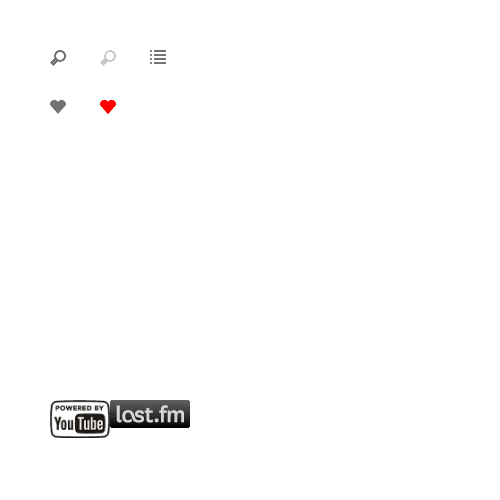
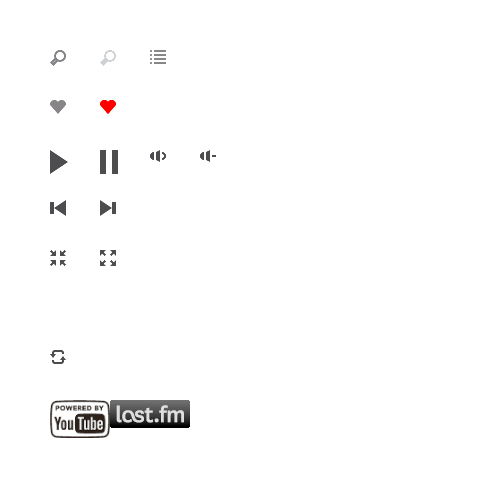
Ch-ch-ch-changes.

diff --git a/public/css/app.less b/public/css/app.less
@@ -12,6 +12,15 @@ a {
   color: #666;
   &:hover { color: #000; text-decoration: underline; }
 }
+hr {
+  background: #222;
+  width: 100%;
+  height: 1px;
+  border: 0;
+  margin: 0;
+  padding: 0;
+  border-top: 1px solid #000;
+}
 
 #app {
   background: #222;
@@ -32,20 +41,21 @@ a {
   padding: 5px 10px;
   .gradient(#eee, #ddd);
   box-shadow: 0 1px 0 1px #000;
-  z-index: 51;
+  z-index: 52;
 
   .home {
-    color: #666;
+    color: #999;
     font-weight: bold;
     font-size: 28px;
+    text-shadow: 0 1px 1px #fff;
     &:hover { text-decoration: none; color: #2b373d; }
   }
 
   #controls {
     position: absolute;
-    top: 12px;
+    top: 6px;
     left: 110px;
-    right: 340px;
+    right: 240px;
   }
 
   #query {
@@ -56,12 +66,13 @@ a {
     padding: 4px;
     font-size: 16px;
     color: #666;
-    &:focus { outline: 0; box-shadow: inset 0 0 1px 0 #999; }
+    box-shadow: inset 0 0 1px 0 #999;
+    &:focus { outline: 0; border-color: #666; }
   }
 
 }
 
-#sidebar, #quickbar, #video {
+#sidebar, #quickbar, #video, #video_shim {
   left: 0;
   width: @sidebar-width;
 }
@@ -72,7 +83,7 @@ a {
   bottom: 0;
   color: #eee;
   border-right: 1px solid #444;
-  box-shadow: 1px 0 0 3px #333;
+  box-shadow: 3px 0 0 #333;
 
   #quickbar {
     background: #101010;
@@ -80,29 +91,37 @@ a {
     top: 0;
     bottom: @video-height;
     overflow-y: scroll;
-    overflow-x: hidden;
+    overflow-x: visible;
     a {
       display: block;
-      color: #fff;
-      padding: 10px;
+      font-size: 12px;
+      font-weight: bold;
+      color: #ddd;
+      padding: 10px 10px 10px 20px;
       &:hover {
+        background: #161616;
+        text-decoration: none;
+      }
+      &.active {
         background: #c0d4df;
         color: #2b373d;
         text-decoration: none;
+        text-shadow: 0 1px 1px #fff;
       }
     }
   }
 
-  #video {
+  #video, #video_shim {
     background: #000;
     height: @video-height;
     position: fixed;
     bottom: 0;
     left: 0;
+    &#video_shim { opacity: 0; }
   }
 }
 
-#main {
+#main, #playlist_wrapper {
   position: absolute;
   top: @header-height;
   bottom: 0;
@@ -115,7 +134,7 @@ a {
 .fullscreen {
   overflow: hidden;
 
-  #video {
+  #video, #video_shim {
     margin: 0;
     padding: 0;
     top: @header-height;
@@ -126,6 +145,7 @@ a {
     width: 100%;
     height: 100%;
     background: #000;
+    &#video_shim { z-index: 51; }
   }
 }
 

diff --git a/public/css/controls.less b/public/css/controls.less
@@ -56,10 +56,12 @@
 #repeat {
   background-position: -50px -350px;
   margin: 5px 0 0 0;
+  width: 16px;
 }
 
 #fullscreen {
   background-position: -100px -250px;
+  width: 16px;
   margin: 4px 0 0 0;
   &.off { background-position: -50px -250px; }
 }
@@ -75,7 +77,7 @@
   cursor: pointer;
 
   .ui-slider-range {
-    background: #333;
+    background: #444;
     height: 10px;
   }
 
@@ -106,7 +108,7 @@
 
   #timer_current {
     width: 0px;
-    background: #333;
+    background: #444;
   }
 
 }
@@ -120,9 +122,9 @@
 
 #timer {
   position: absolute;
-  top: 8px;
+  top: 9px;
   left: 180px;
-  right: 48px;
+  right: 40px;
 }
 .controls-right {
   position: absolute;
@@ -130,26 +132,32 @@
   right: 0;
 }
 
-#song_info, #timer_text {
-  height: 22px;
+#song_info, #timer_left, #timer_right {
+  font-family: 'Geo';
+  font-size: 20px;
+  line-height: 22px;
   overflow: hidden;
   position: absolute;
-  font-weight: bold;
-  font-size: 16px;
   color: #666;
-  top: -12px;
+  top: -8px;
   left: 190px;
-  right: 58px;
+  right: 50px;
 }
 
 #song_info {
+  font-weight: bold;
   text-align: center;
   text-shadow: 0 1px 1px #fff;
 }
 
-#timer_text {
-  font-size: 12px;
-  right: 0px;
-  text-align: right;
-  line-height: 22px;
+#timer_left, #timer_right {
+  color: #999;
+
+  &#timer_left {
+    text-align: left;
+  }
+  &#timer_right {
+    right: 48px;
+    text-align: right;
+  }
 }

diff --git a/public/js/controls.js b/public/js/controls.js
@@ -27,7 +27,8 @@ $(function() {
       this.$songInfo     = $('#song_info'),
       this.$songBadge    = $('#song_badge'),
       this.$timer        = $('#timer'),
-      this.$timerText    = $('#timer_text'),
+      this.$timerLeft    = $('#timer_left'),
+      this.$timerRight   = $('#timer_right'),
       this.$timerLoaded  = $('#timer_loaded'),
       this.$timerCurrent = $('#timer_current');
       this.$volume       = $('#volume');
@@ -51,7 +52,7 @@ $(function() {
     },
 
     setUpdate: function() {
-      this.updateInterval = setInterval(this.update, 334);
+      this.updateInterval = setInterval(this.update, 100);
     },
 
     toggleFullscreen: function() {
@@ -119,11 +120,14 @@ $(function() {
       if (_.isNaN(timeRatio) || _.isNaN(bytesRatio)) {
         this.$timerLoaded.width(0);
         this.$timerCurrent.width(0);
-        this.$timerText.html('');
+        this.$timerLeft.html('');
+        this.$timerRight.html('');
       } else {
         this.$timerLoaded.width(this.$timer.width() * bytesRatio);
         this.$timerCurrent.width(this.$timer.width() * timeRatio);
-        this.$timerText.html(window.Video.timeText());
+        var time = window.Video.timers();
+        this.$timerLeft.html(time[0]);
+        this.$timerRight.html(time[1]);
       }
     },
 

diff --git a/public/js/application.js b/public/js/application.js
@@ -73,7 +73,10 @@ $(function() {
 
     search: function(type, method, query) {
       // Unbind events for when view is re-created
-      if (!_.isUndefined(window.Search)) window.Search.view.delegateEvents([]);
+      console.log(type, method, query);
+      if (!_.isUndefined(window.Search)) {
+        window.Search.view.delegateEvents([]);
+      }
       this.trigger('appview');
       $('#main').show();
       var query = decodeURIComponent(query);
@@ -90,13 +93,7 @@ $(function() {
       , 'keypress #query'      : 'searchOnEnter'
       , 'keydown'              : 'keyMapper'
       , 'keyup'                : 'setMaxVolume'
-      , 'click a'              : 'hijackAnchor'
       //, 'hover [title]'        : 'tooltip'
-    },
-
-    hijackAnchor: function(e) {
-      e.preventDefault();
-      Router.navigate($(e.target).attr('href'), true);
     },
 
     tooltip: function(e) {

diff --git a/public/js/video.js b/public/js/video.js
@@ -43,8 +43,17 @@ $(function() {
       return this.player.getCurrentTime() / this.player.getDuration();
     },
 
-    timeText: function() {
-      return (this.humanizeSeconds(this.player.getCurrentTime()) + ' / ' + this.humanizeSeconds(this.player.getDuration()));
+    timers: function() {
+      var current = Math.floor(this.player.getCurrentTime()),
+          remaining = Math.ceil(this.player.getDuration() - current);
+
+      return [
+        this.humanizeSeconds(current),
+        this.humanizeSeconds(remaining)
+       ];
+    },
+
+    timeRemaining: function() {
     },
 
     humanizeSeconds: function(s) {

diff --git a/locales/en.js b/locales/en.js
@@ -8,5 +8,14 @@
 	"favorites": "favorites",
 	"playlists": "playlists",
 	"login": "login",
-	"signup": "signup"
+	"signup": "signup",
+	"Currently Playing": "Currently Playing",
+	"Settings": "Settings",
+	"Favorites": "Favorites",
+	"Playlists": "Playlists",
+	"Now playing": "Now playing",
+	"Now Playing": "Now Playing",
+	"Tag Radio": "Tag Radio",
+	"Broadcasts": "Broadcasts",
+	"+ New Playlist": "+ New Playlist"
 }

diff --git a/public/js/boot.js b/public/js/boot.js
@@ -13,7 +13,7 @@ function onYouTubePlayerReady(id) {
 
   window.Router = new AppRouter();
 
-  if (!Backbone.history.start({ pushState: true })) {
+  if (!Backbone.history.start()) {
     Router.navigate(window.location.pathname, true);
   }
 
